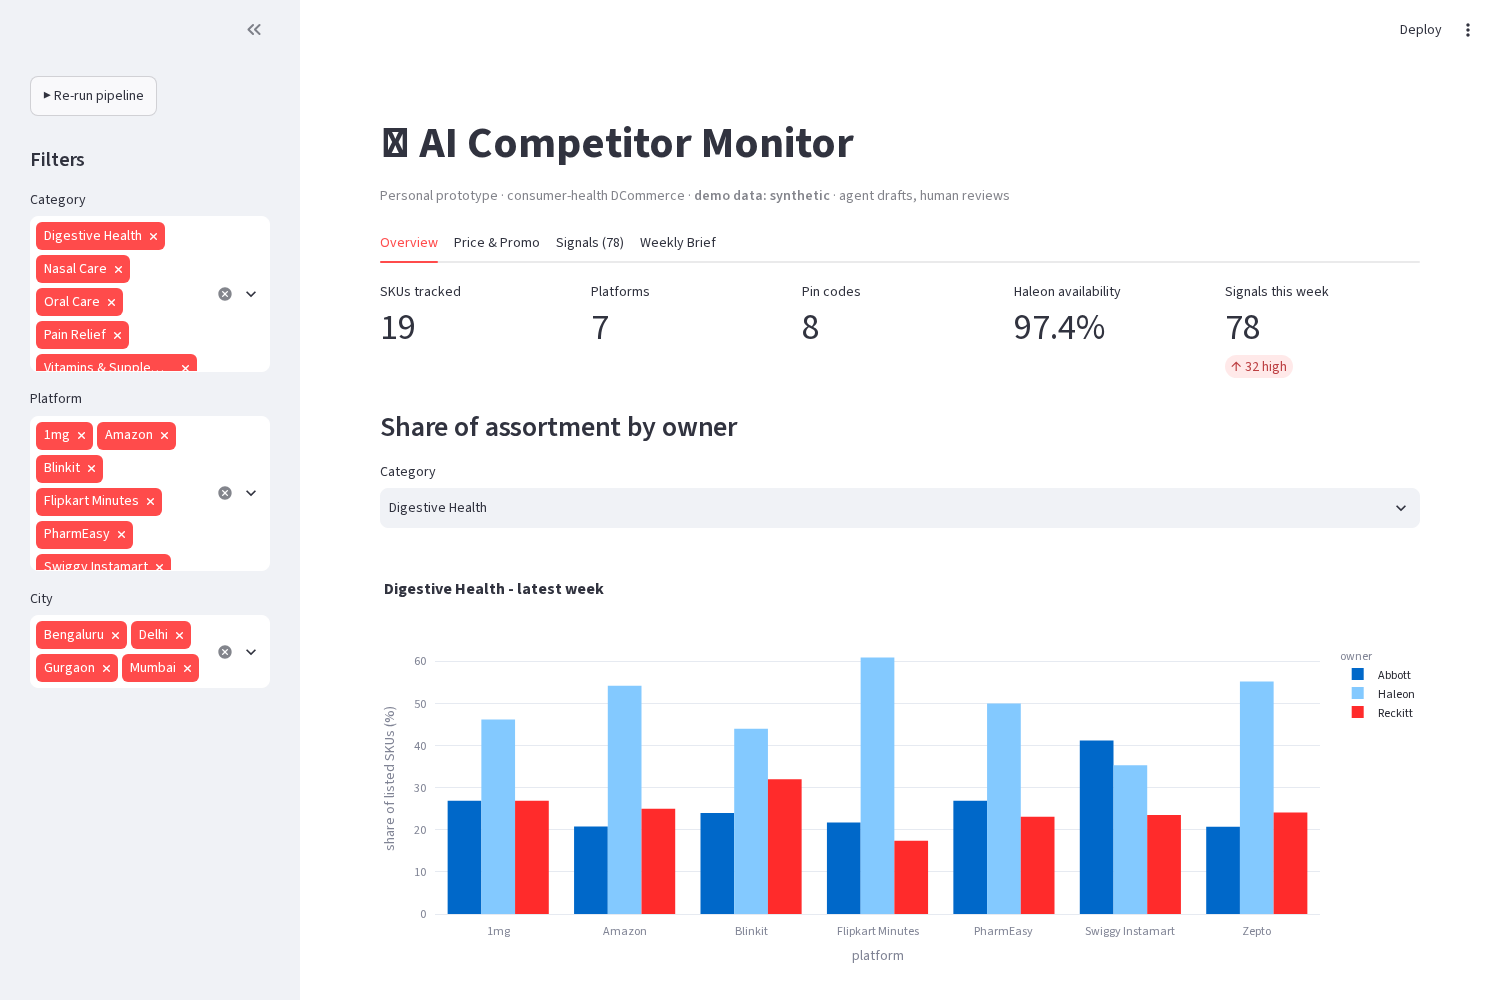
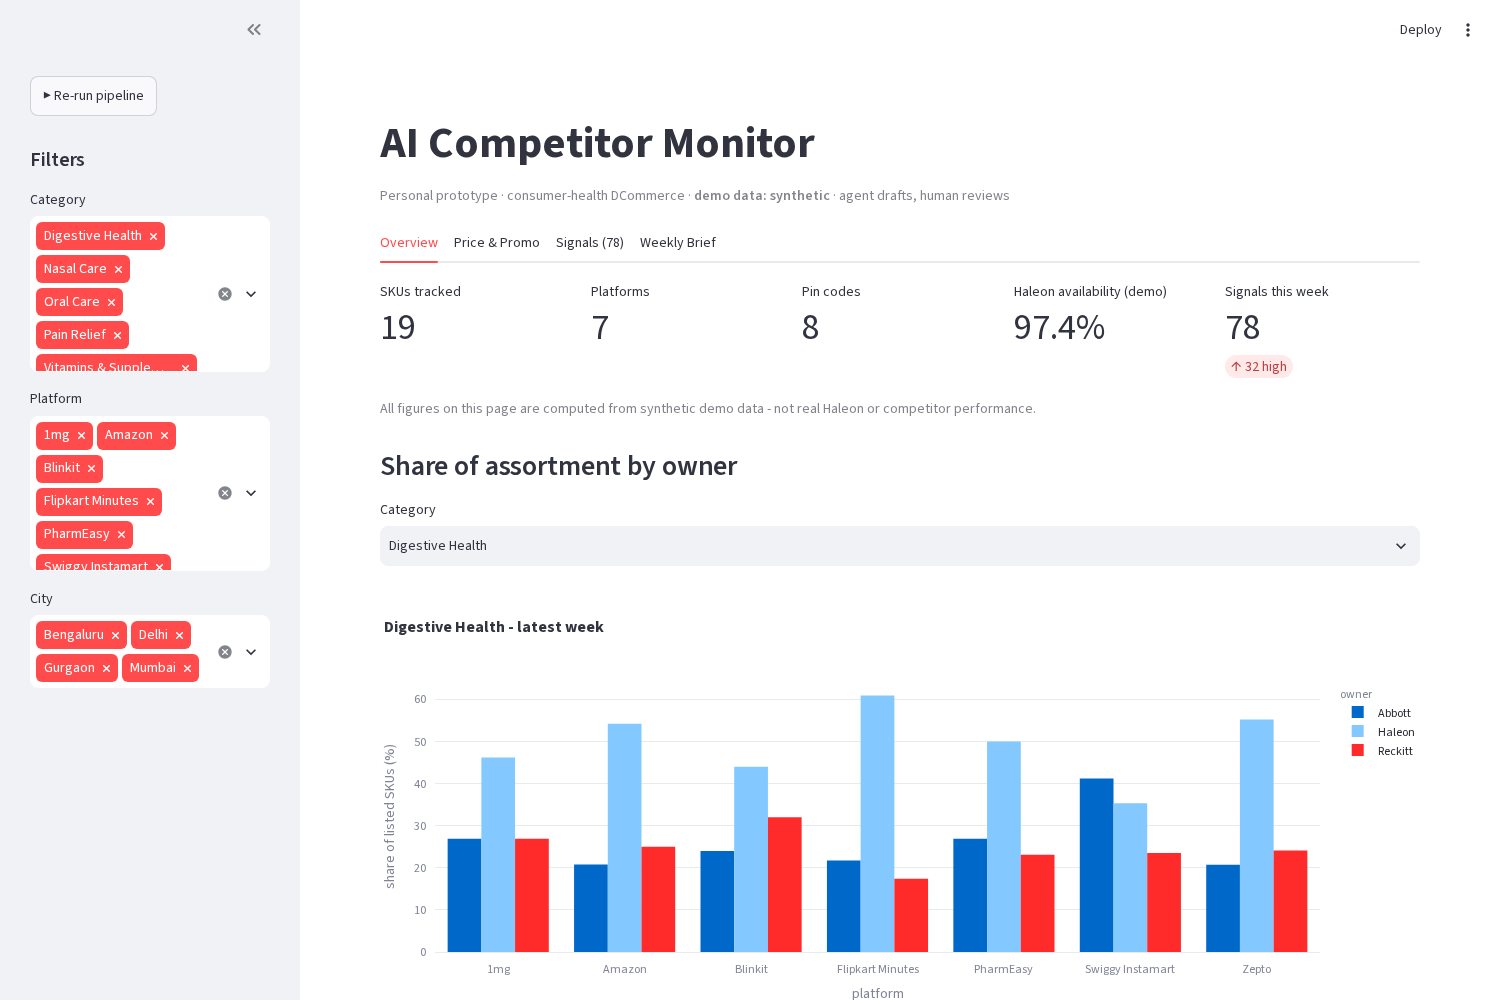
UI: drop emoji glyph, demo-labelled KPIs, full-signal inspector, brief scope note

diff --git a/app.py b/app.py
@@ -14,9 +14,9 @@ from data.catalog import FOCUS_OWNER, PLATFORMS
 ROOT = Path(__file__).resolve().parent
 PROC = ROOT / "data" / "processed"
 
-st.set_page_config(page_title="AI Competitor Monitor", page_icon="📡", layout="wide")
+st.set_page_config(page_title="AI Competitor Monitor", layout="wide")
 
-st.title("📡 AI Competitor Monitor")
+st.title("AI Competitor Monitor")
 st.caption("Personal prototype · consumer-health DCommerce · **demo data: synthetic** · "
            "agent drafts, human reviews")
 
@@ -52,8 +52,9 @@ with tab1:
     c1.metric("SKUs tracked", df["sku_id"].nunique())
     c2.metric("Platforms", df["platform"].nunique())
     c3.metric("Pin codes", df["pincode"].nunique())
-    c4.metric(FOCUS_OWNER + " availability", f"{n_focus_avail:.1f}%")
+    c4.metric(FOCUS_OWNER + " availability (demo)", f"{n_focus_avail:.1f}%")
     c5.metric("Signals this week", len(sig), delta=f"{(sig['severity'] == 'high').sum()} high", delta_color="inverse")
+    st.caption("All figures on this page are computed from synthetic demo data - not real Haleon or competitor performance.")
 
     st.subheader("Share of assortment by owner")
     soa_f = soa.merge(df[["brand", "owner"]].drop_duplicates(), on="brand")
@@ -101,12 +102,18 @@ with tab3:
     if only_focus:
         s = s[s["focus"]]
     st.dataframe(s[["severity", "type", "category", "platform", "city", "brand", "detail"]]
-                 .sort_values("severity"), use_container_width=True, height=420)
+                 .sort_values("severity"), use_container_width=True, height=420,
+                 column_config={"detail": st.column_config.TextColumn(width="medium")})
+    pick = st.selectbox("Inspect full signal", range(len(s)),
+                        format_func=lambda i: f"[{s.iloc[i]['severity']}] {s.iloc[i]['type']} - {s.iloc[i]['brand']} - {s.iloc[i]['platform']}")
+    r = s.iloc[pick]
+    st.info(f"**{r['type']}** ({r['severity']}) - {r['category']} / {r['brand']} / {r['platform']} / {r['city']}\n\n{r['detail']}")
     st.caption("Severity is rule-based (size of move; OOS on focus brands ranks high). "
                "OOS flags are debounced: a flip must hold two prior weeks to fire.")
 
 with tab4:
     st.subheader("Weekly brief - draft for review")
+    st.caption("Brief is generated from the full dataset (all categories, platforms, cities) for the latest week - sidebar filters do not change it.")
     briefs = sorted((ROOT / "briefs").glob("weekly_brief_*.md"))
     if not briefs:
         st.info("Run the pipeline to generate a brief.")
